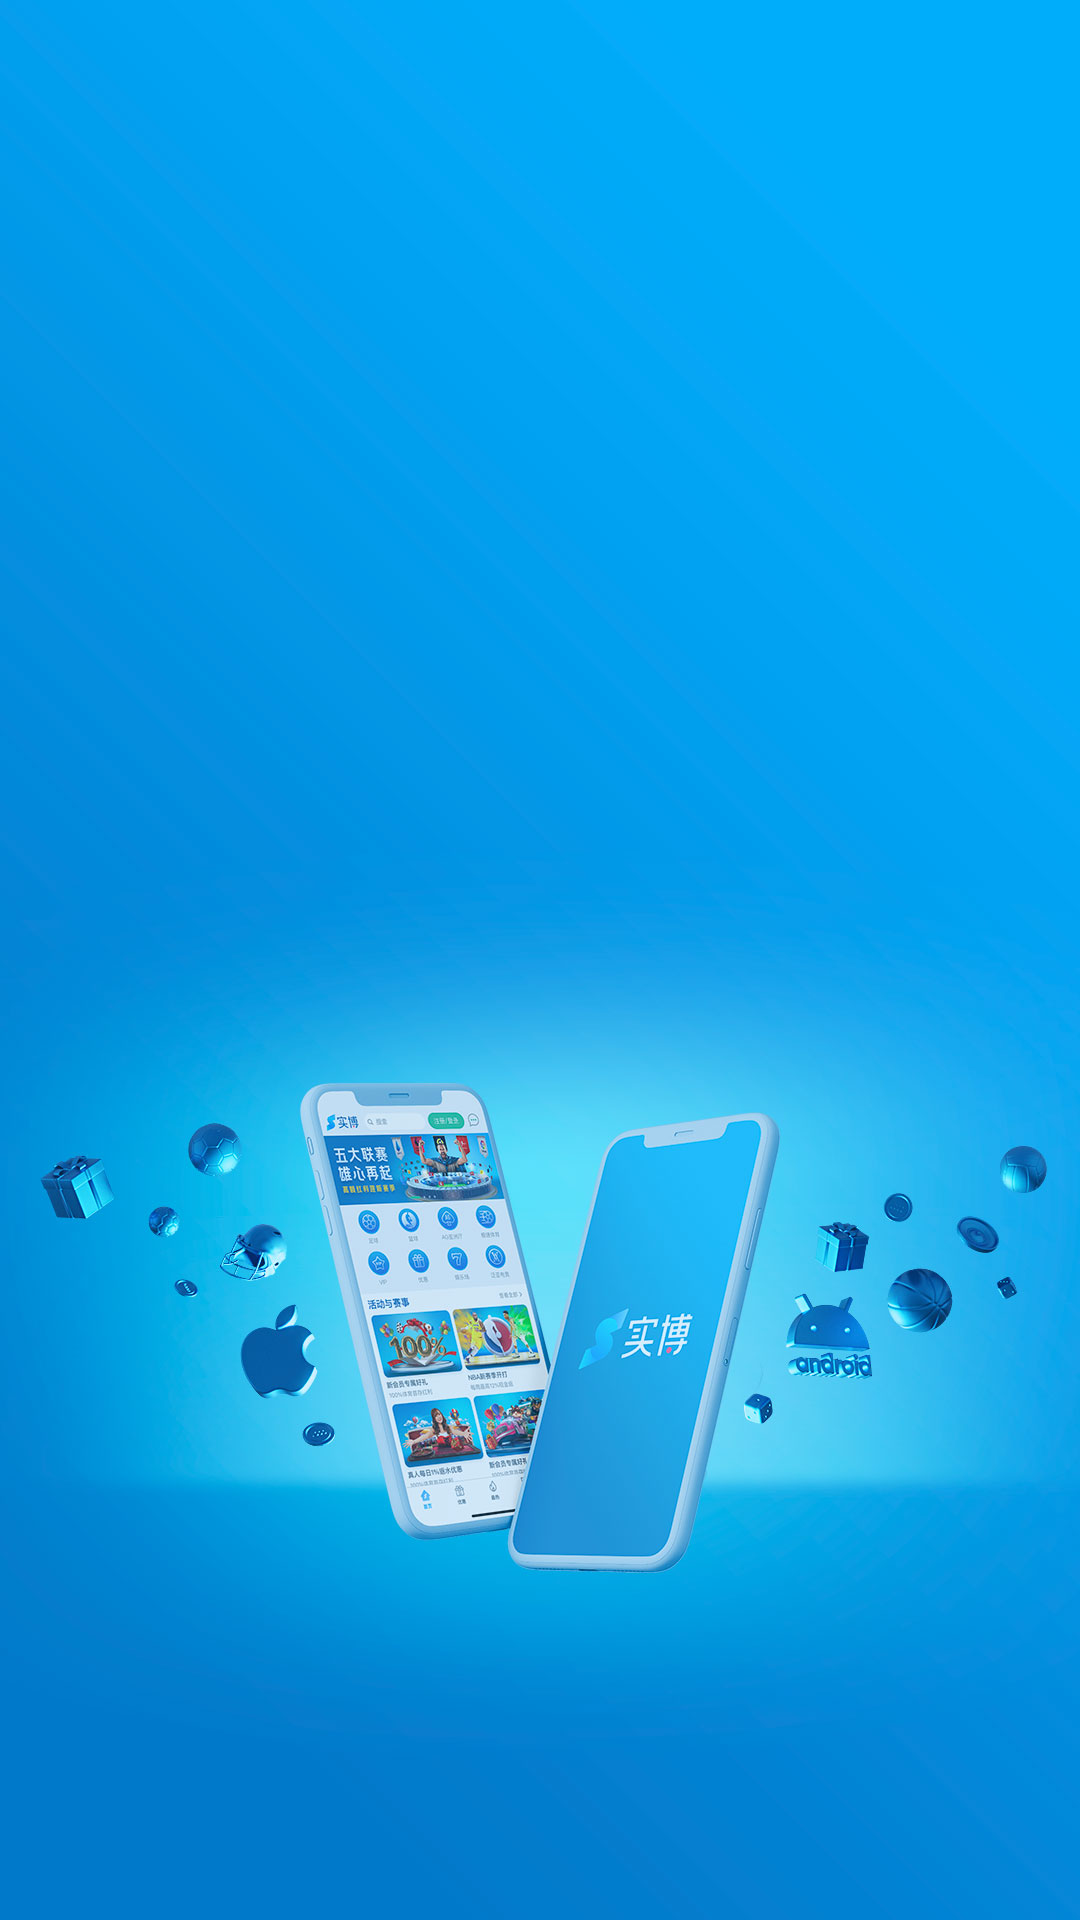
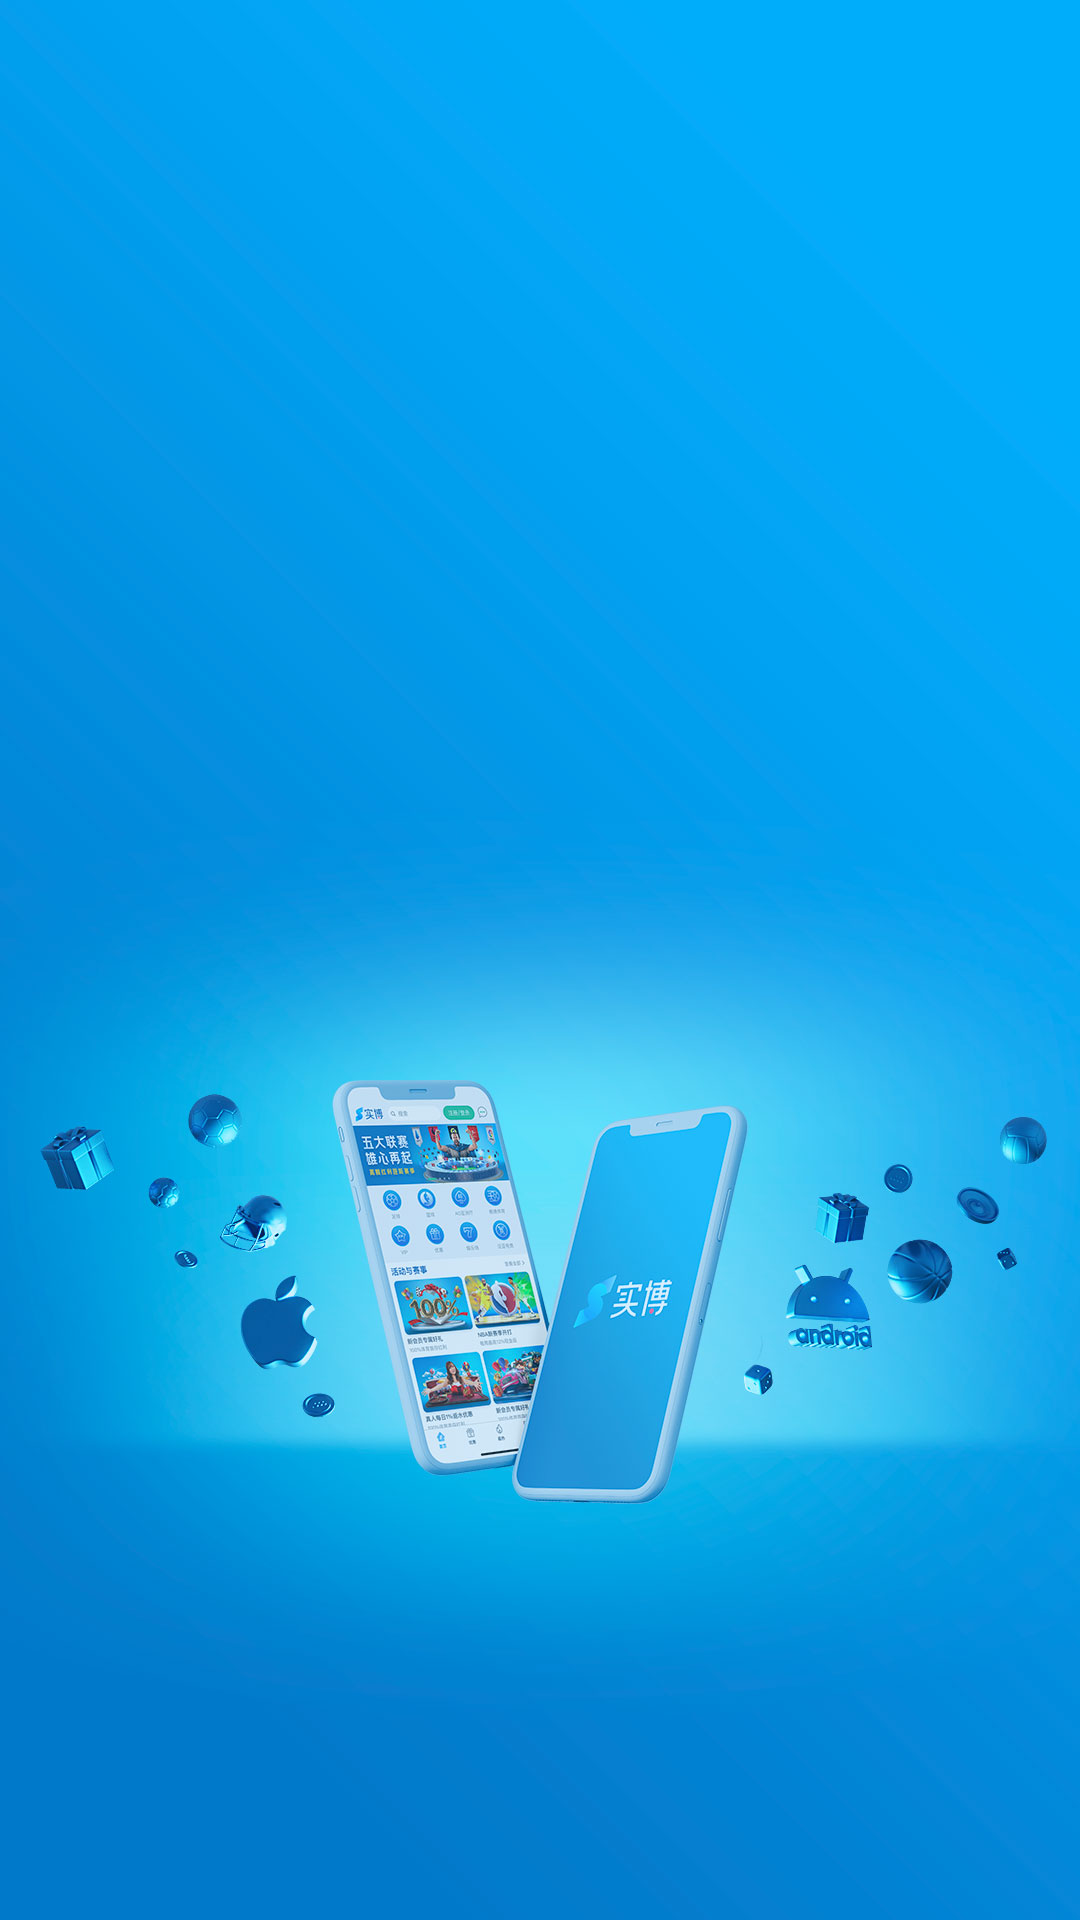
App Download:SBet

Changed region(s): [[0.1528, 0.5625, 0.9778, 0.8438], [0.0306, 0.5625, 0.2139, 0.6875]]

diff --git a/10bo/LandingPage/app-download/index.html b/10bo/LandingPage/app-download/index.html
@@ -4,16 +4,16 @@
 <head>
 	<meta http-equiv="Content-Type" content="text/html; charset=UTF-8">
 	<meta name="viewport" content="width=device-width, initial-scale=1.0, maximum-scale=1.0, user-scalable=no">
-	<title>立即下載｜10Bet十博APP 体验顶级博彩服务</title>
-	<meta name="Description" content="10Bet十博每月提供20,000多场滚球赛事，包括英超、西甲、意甲、德甲等联赛的多数赛事，以及其他体育赛事如篮球、网球、美国榄球等。超过200种不同的投注类型，无论是赛前还是滚球，您必定能找到喜爱的项目！">
+	<title>立即下载｜SBet实博 APP 体验顶级博彩服务</title>
+	<meta name="Description" content="SBet实博每月提供20,000多场滚球赛事，包括英超、西甲、意甲、德甲等联赛的多数赛事，以及其他体育赛事如篮球、网球、美国榄球等。超过200种不同的投注类型，无论是赛前还是滚球，您必定能找到喜爱的项目！">
 	<link rel="icon" type="image/png" href="https://jtoerep9bn.datasecure.online/10bet/assets/favicon.ico">
 	<meta http-equiv="Access-Control-Allow-Origin" content="*">
 	<link rel="stylesheet" type="text/css" href="css/bootstrap.min.css">
-	<link rel="stylesheet" type="text/css" href="css/download.css">
 	<link rel="stylesheet" type="text/css" href="css/ba.css">
 	<link rel="stylesheet" type="text/css" href="css/swiper-3.4.1.min.css">
 	<link rel="stylesheet" type="text/css" href="css/main.css?1">
 	<link rel="stylesheet" type="text/css" href="css/spin.css">
+	<link rel="stylesheet" type="text/css" href="css/download.css">
 	<script type="text/javascript" src="js/jquery.min.js"></script>
 	<script>(function () {
         var a = XMLHttpRequest.prototype.open;
@@ -59,19 +59,6 @@
 		<div class="content" bis_skin_checked="1">
 
 			<h3>实博APP</h3>
-<!--			<div class="android_container" bis_skin_checked="1" style="display: none;">-->
-<!--				<div class="load" bis_skin_checked="1">-->
-<!--					<br>-->
-<!--					<button class="download_android" id="download-button-android" onclick="androidClickInstall()">-->
-<!--						<i class="loading-indicator" id="loading-indicator" style="display: none; position:relative"></i>-->
-<!--						<p class="dlText">下载安装</p>-->
-<!--					</button>-->
-<!--					<br>-->
-<!--				</div>-->
-<!--				<p class="down_tip">请在同一网络环境下下载安装和注册，勿切换网络</p>-->
-<!--				<br>-->
-<!--				<br>-->
-<!--			</div>-->
 			<div class="android_container" bis_skin_checked="1" style="display: none;">
 				<div class="load" bis_skin_checked="1">
 					<p class="ios_reinstall">若要更新版本，请先卸载旧的APP版本</p>
@@ -94,7 +81,7 @@
                         <p class="dlText-ios">下载安装</p>
                     </button>
                 </div>
-				<p class="tuto">下滑查看安裝教程
+				<p class="tuto">下滑查看安装教程
 				<span class="goToInstruction" id="consult"><img src="./assets/Down-arrow.svg"></span>
 				</p>
 			</div>
@@ -102,6 +89,7 @@
 	</div>
 	<div id="tutorial" class="torial" style="background: #d8e9ef" bis_skin_checked="1">
 		<div class="swiper-container swiper-container-horizontal" bis_skin_checked="1">
+			<p class="title">安装教程</p>
 			<div class="swiper-wrapper" style="transition-duration: 0ms; transform: translate3d(0px, 0px, 0px);" bis_skin_checked="1">
 				<div class="swiper-slide swiper-slide-active" style="width: 414px;" bis_skin_checked="1"><img src="assets/ltios_01.jpg" alt=""></div>
 				<div class="swiper-slide swiper-slide-next" style="width: 414px;" bis_skin_checked="1"><img src="assets/ltios_02.jpg" alt=""></div>
@@ -117,21 +105,8 @@
 			<div class="swiper-button-next" bis_skin_checked="1"></div>
 			<div class="swiper-button-prev swiper-button-disabled" bis_skin_checked="1"></div>
 		</div>
-		<br>
-		<br>
-		<br>
 	</div>
 	<footer>
-		<div class="sponsership-section">
-			<div class="container">
-				<div class="sponsership-item">
-					<a href="javascript:void(0)" class="logo-juventus"></a>
-					<a href="javascript:void(0)" class="logo-DDI"></a>
-					<a href="javascript:void(0)" class="logo-blackburn"></a>
-				</div>
-			</div>
-		</div>
-
 		<div class="footer">
 			<div class="container">
 				<p>实博每月提供2万多场滚球赛事－包括最热门的NBA、足球五大联赛、英雄联盟－业界最高水位，给予会员最多回馈！另有反恐精英、王者荣耀、绝地求生等电竞比赛，网球、排球等其它体育赛事，共计有超过200种投注类型任您选择，无论赛前或滚球，您必定能找到喜爱的项目哦！</p>
@@ -146,20 +121,20 @@
 <div class="mobile_body" style="display:none;" bis_skin_checked="1">
 	<div class="mobile_box" bis_skin_checked="1">
 		<div class="desk-top-logo" bis_skin_checked="1">
-			<img class="mobile_logo" src="assets/logo.png" alt="mobile logo">
-			<p class="title">实博APP</p>
+			<div class="logo-container">
+				<img class="mobile_logo" src="assets/icon_app_SBet.svg" alt="mobile logo">
+				<p class="title">实博APP</p>
+			</div>
 			<p class="subtitle">每一触，都有更美好的体验</p>
-			<div style="position:relative;margin-top:50px;" bis_skin_checked="1">
-				<img class="phone_frame" src="assets/phone.png" alt="phone">
-				<div id="qrcode" bis_skin_checked="1">
-					<div class="loading_frame" bis_skin_checked="1">
-						<img src="assets/loading.gif" alt="loading">
-						<div class="qrcodeloadingText" bis_skin_checked="1">Loading ...</div>
-					</div>
+			<p class="content">扫一扫二维码，随时随地享受投注的乐趣。<br>完美支持苹果系统、安卓系统。</p>
+			<div id="qrcode" bis_skin_checked="1">
+				<div class="loading_frame" bis_skin_checked="1">
+					<img src="assets/loading.gif" alt="loading">
+					<div class="qrcodeloadingText" bis_skin_checked="1">Loading ...</div>
 				</div>
 			</div>
 		</div>
-		<img class="mobile_bj" src="assets/bg-gradient.png" alt="background">
+		<img class="mobile_bj" src="assets/desktop-bg.jpg" alt="background">
 	</div>
 </div>
 

diff --git a/10bo/LandingPage/app-download/css/download.css b/10bo/LandingPage/app-download/css/download.css
@@ -17,7 +17,7 @@
 
 .remind {
   width: 100%;
-  min-height: 173vw;
+  min-height: 176vw;
   overflow: hidden;
   position: relative;
   background: url("../assets/sport_bg.jpg") top center no-repeat;
@@ -96,13 +96,13 @@ a.dllg img {
   font-weight: bold;
   color: #ffffff;
   text-align: center;
-  margin-top: 56vw;
+  margin-top: 60vw;
   line-height: 2.5em;
 }
 
 .down_tip, .ios_reinstall {
   width: 100%;
-  font-size: 14px;
+  font-size: 0.25rem;
   color: #ffffff;
   text-align: center;
   margin-top: 0.10rem;
@@ -110,7 +110,7 @@ a.dllg img {
 }
 
 .ios_reinstall {
-  margin-top: 45px;
+  margin-top: 1rem;
 }
 
 #consult {
@@ -135,7 +135,7 @@ a.dllg img {
 
 .torial {
   width: 100%;
-  height: 172vw;
+  height: 176vw;
   background: linear-gradient(#33b9ff, #33a7ff);
 }
 
@@ -163,16 +163,16 @@ a.dllg img {
 }
 
 .swiper-pagination-bullet {
-  width: 0.2rem !important;
-  height: 0.2rem !important;
+  width: 0.4rem !important;
+  height: 0.08rem !important;
   display: inline-block;
-  border-radius: 100%;
+  border-radius: 1em;
   background: #fff !important;
-  opacity: 1 !important;
+  /* opacity: 1 !important; */
 }
 
 .swiper-pagination-bullet-active {
-  background-color: #1DB955 !important;
+  background-color: #25C296 !important;
 }
 
 #cnzz_stat_icon_1276123516 {
@@ -186,16 +186,145 @@ a.dllg img {
 .download_android, .download_ios {
   display: block;
   margin: 0 auto;
-  margin-top: 16px;
+  margin-top: 0.25rem;
   border: none;
   padding: 0;
   -moz-border-radius: 50px;
   -moz-box-shadow: 0 2px 4px rgba(0, 0, 0, 0.6);
-  -webkit-border-radius: 50px;
+  -webkit-border-radius: 1rem;
   color: #fff;
   cursor: pointer;
   font-size: 0.35rem;
   text-decoration: none;
-  min-width: 351px;
-  min-height: 58px;
+  min-width: 6.75rem;
+  min-height: 1.15rem;
+}
+
+/* Mobile Adjust */
+.remind .logo {
+  margin-top: 6vh;
+}
+.logo img {
+  width: 1.8rem;
+}
+.btn-success {
+  background-color:#25C296;
+}
+.torial .title {
+  position: absolute;
+  left: 50%;
+  transform: translateX(-50%);
+  z-index: 10;
+  margin: 1.25em auto auto;
+  font-size: 0.5em;
+}
+
+footer{
+  background-color: #0066B7;
+}
+.footer p {
+  font-size: 0.2em;
+  opacity: .5;
+  margin: 0.4rem 0;
+  line-height: 2.25em;
+}
+.footer .container {
+  position: relative;
+  z-index: 20;
+  width: 94%;
+}
+
+/*Swiper*/
+.swiper-button-next, .swiper-button-prev {
+  background-size: 0.9em 0.9em;
+  width: 0.5em;
+  height: 0.9em;
+  margin-top: -0.45em;
+}
+.swiper-button-next, .swiper-container-rtl .swiper-button-prev {
+  right: 0.4rem;
+}
+.swiper-button-prev, .swiper-container-rtl .swiper-button-next{
+  left: 0.4rem;
+}
+.swiper-container-horizontal>.swiper-pagination-bullets, 
+.swiper-pagination-custom, .swiper-pagination-fraction {
+  bottom: 1rem;
+}
+.swiper-container-horizontal>.swiper-pagination-bullets .swiper-pagination-bullet {
+  margin: 0 0.1em;
+}
+
+/*Desktop Adjust*/
+html, body {
+  height: 100%;
+  background-color:#00ACFA;
+}
+.mobile_body {
+  width: 100%;
+  height: 100%;
+
+}
+.mobile_box {
+  width: 960px;
+  height: auto;
+  margin: 0 auto;
+  top: 50%;
+  transform: translateY(-50%);
+}
+.desk-top-logo {
+  position: absolute;
+  top: 64px;
+}
+.logo-container {
+  font-size: initial;
+}
+.logo-container .mobile_logo,
+.logo-container .title {
+  display: inline-block;
+}
+
+.logo-container .title {
+  margin: 0 0 0 12px;
+  vertical-align: middle;
+}
+.mobile_logo {
+  width: 84px;
+}
+#qrcode{
+  position: relative;
+  top: 0%;
+	left: 0%;
+  width: 180px;
+  height: 180px;
+  background-color: #fff;
+  border-radius: 10px;
+  margin-top: 16px;
+}
+.loading_frame {
+  z-index: 10;
+  line-height: 0;
+  text-align: center;
+}
+canvas {
+  position: absolute;
+  top: 50%;
+  left: 50%;
+  transform: translate(-50%,-50%);
+}
+.mobile_box .title {
+  font-size: 52px;
+  text-align: left;
+}
+.mobile_box .subtitle {
+  font-size: 24px;
+  text-align: left;
+  opacity: 0.6;
+}
+.mobile_box .content {
+  font-size: 14px;
+  line-height: 22px;
+  color:#fff;
+  text-align: left;
+  opacity: 0.6;
 }

diff --git a/10bo/LandingPage/app-download/css/main.css b/10bo/LandingPage/app-download/css/main.css
@@ -31,7 +31,7 @@
 	margin: 0 auto;
 }
 
-.desk-top-logo {
+/* .desk-top-logo {
 	font-size: 224.26px;
 	color: #263440;
 	margin: 0;
@@ -45,7 +45,7 @@
 	position: absolute;
 	text-align: center;
 	top: 5%;
-}
+} */
 
 .title {
 	text-align: center;

diff --git a/10bo/LandingPage/app-download/js/init.js b/10bo/LandingPage/app-download/js/init.js
@@ -124,8 +124,8 @@ function createQRCode(address) {
     }
 
     $('#qrcode').qrcode({
-        width: 200,
-        height: 200,
+        width: 146,
+        height: 146,
         text: text
     });
 
